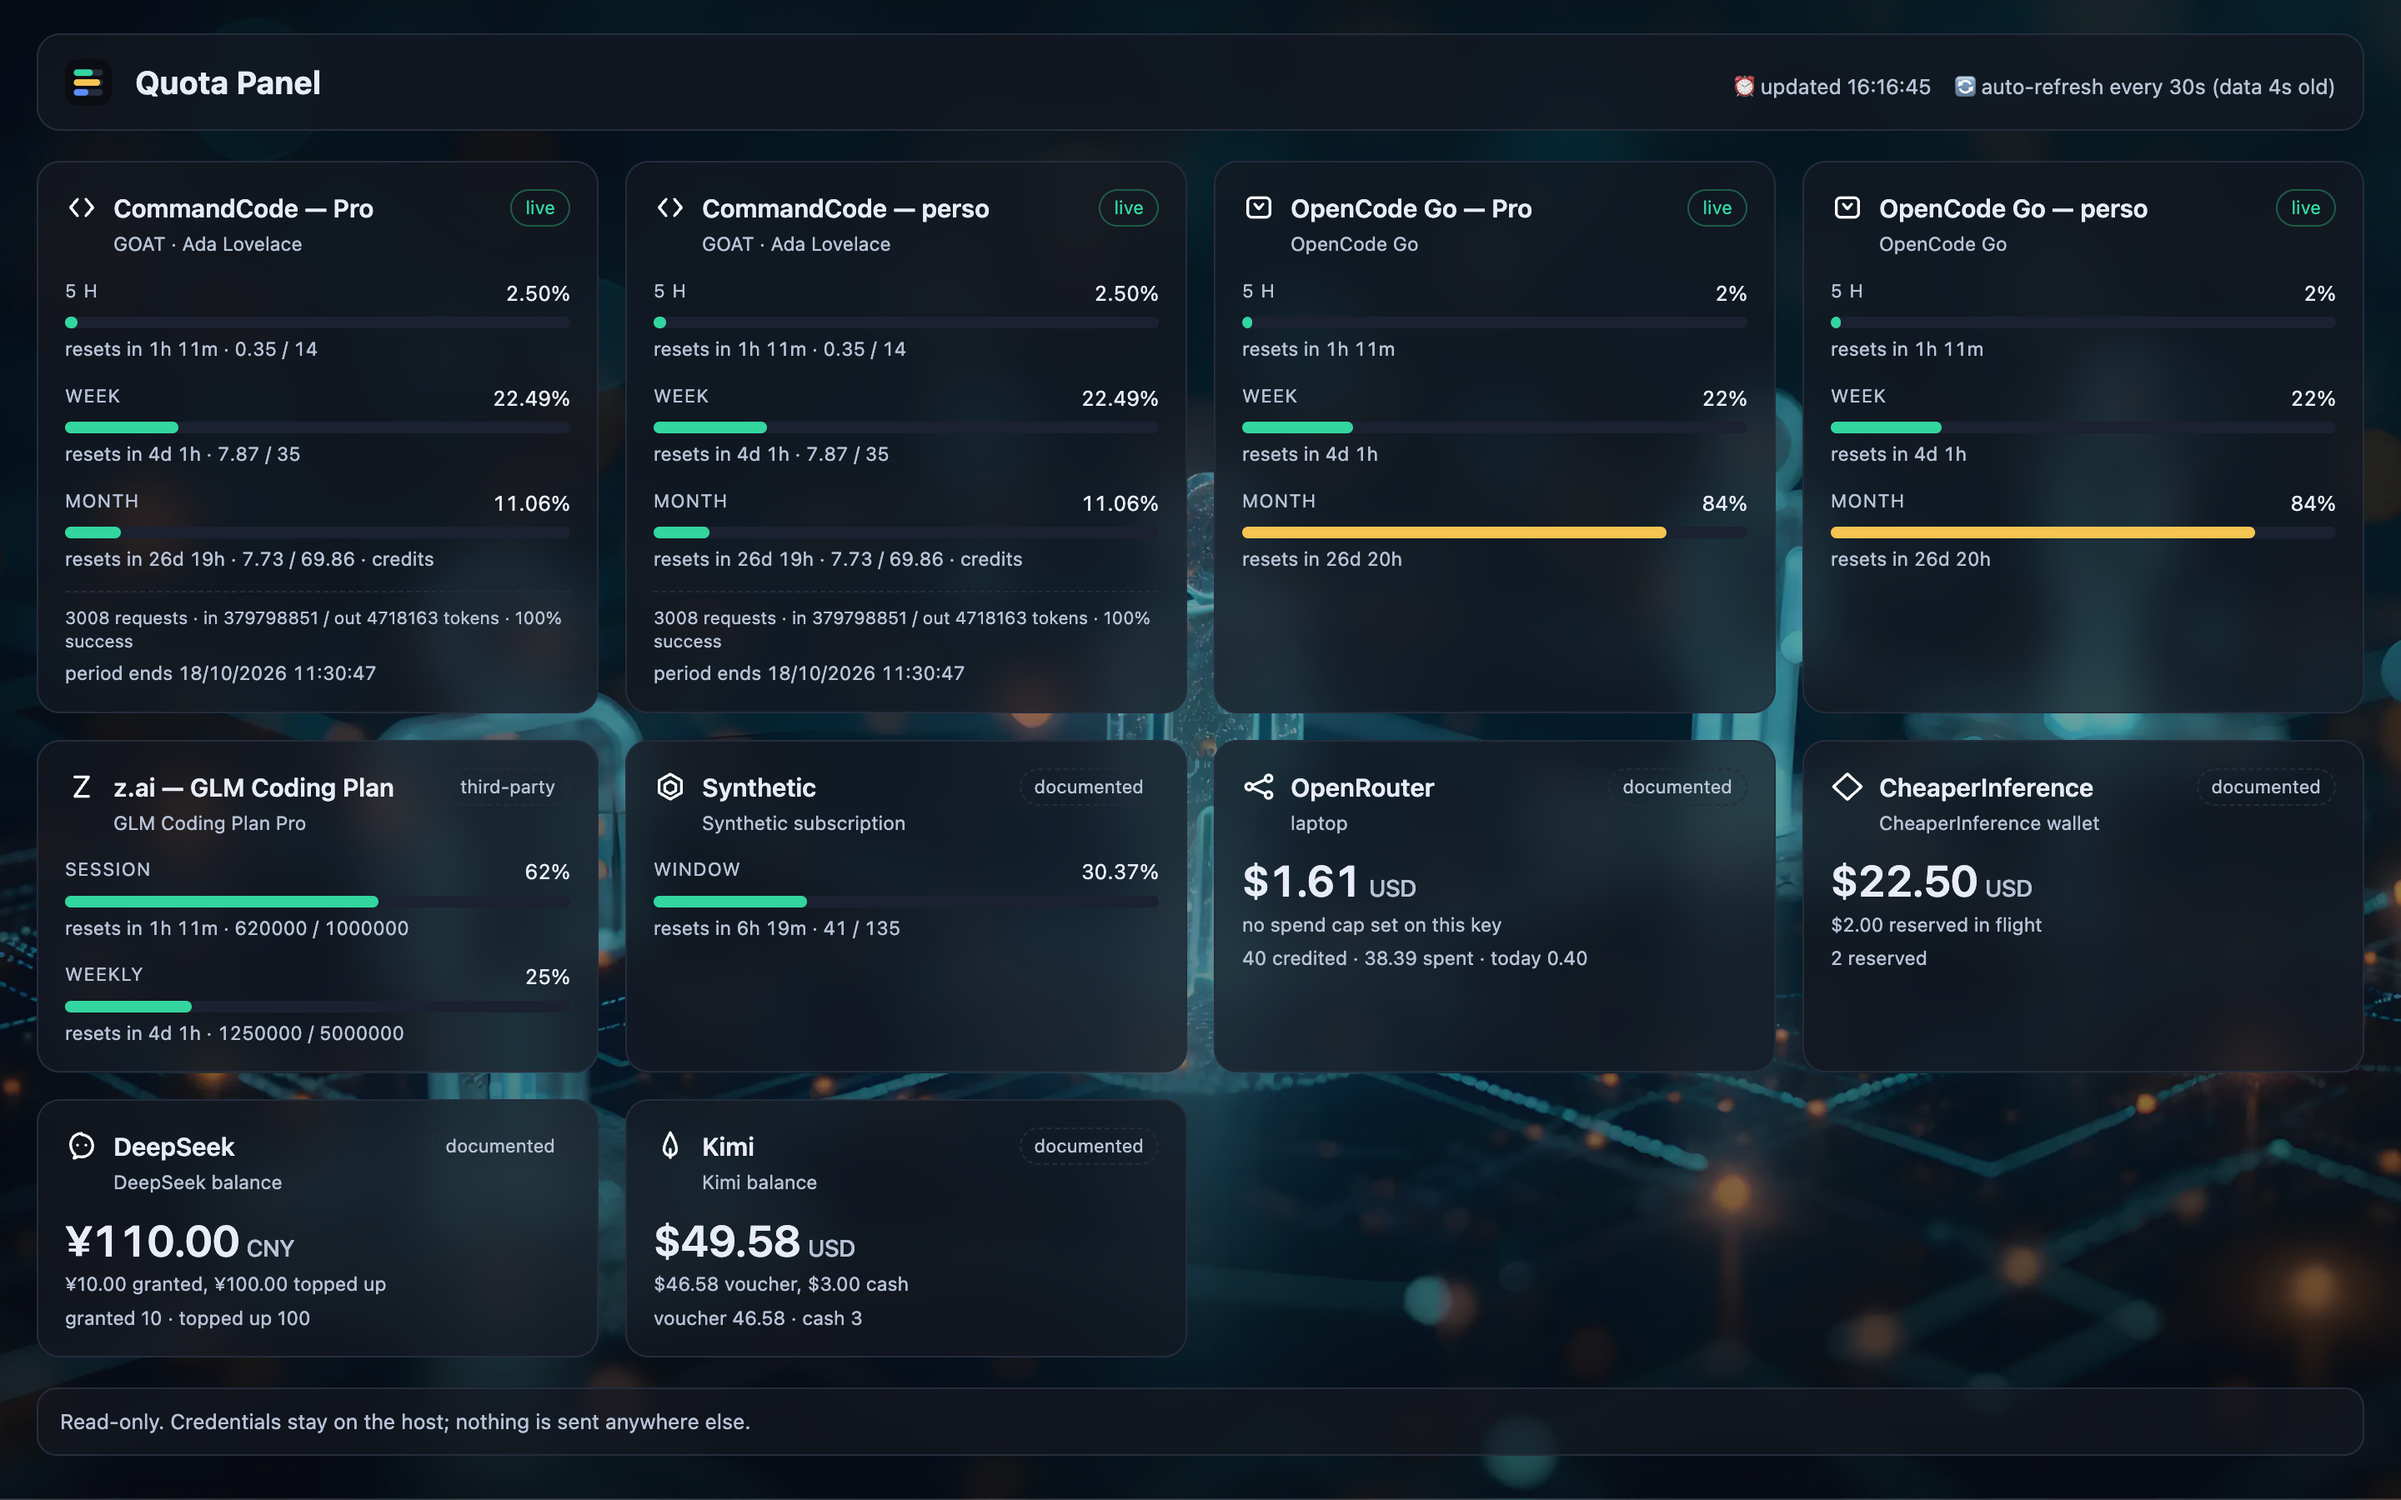
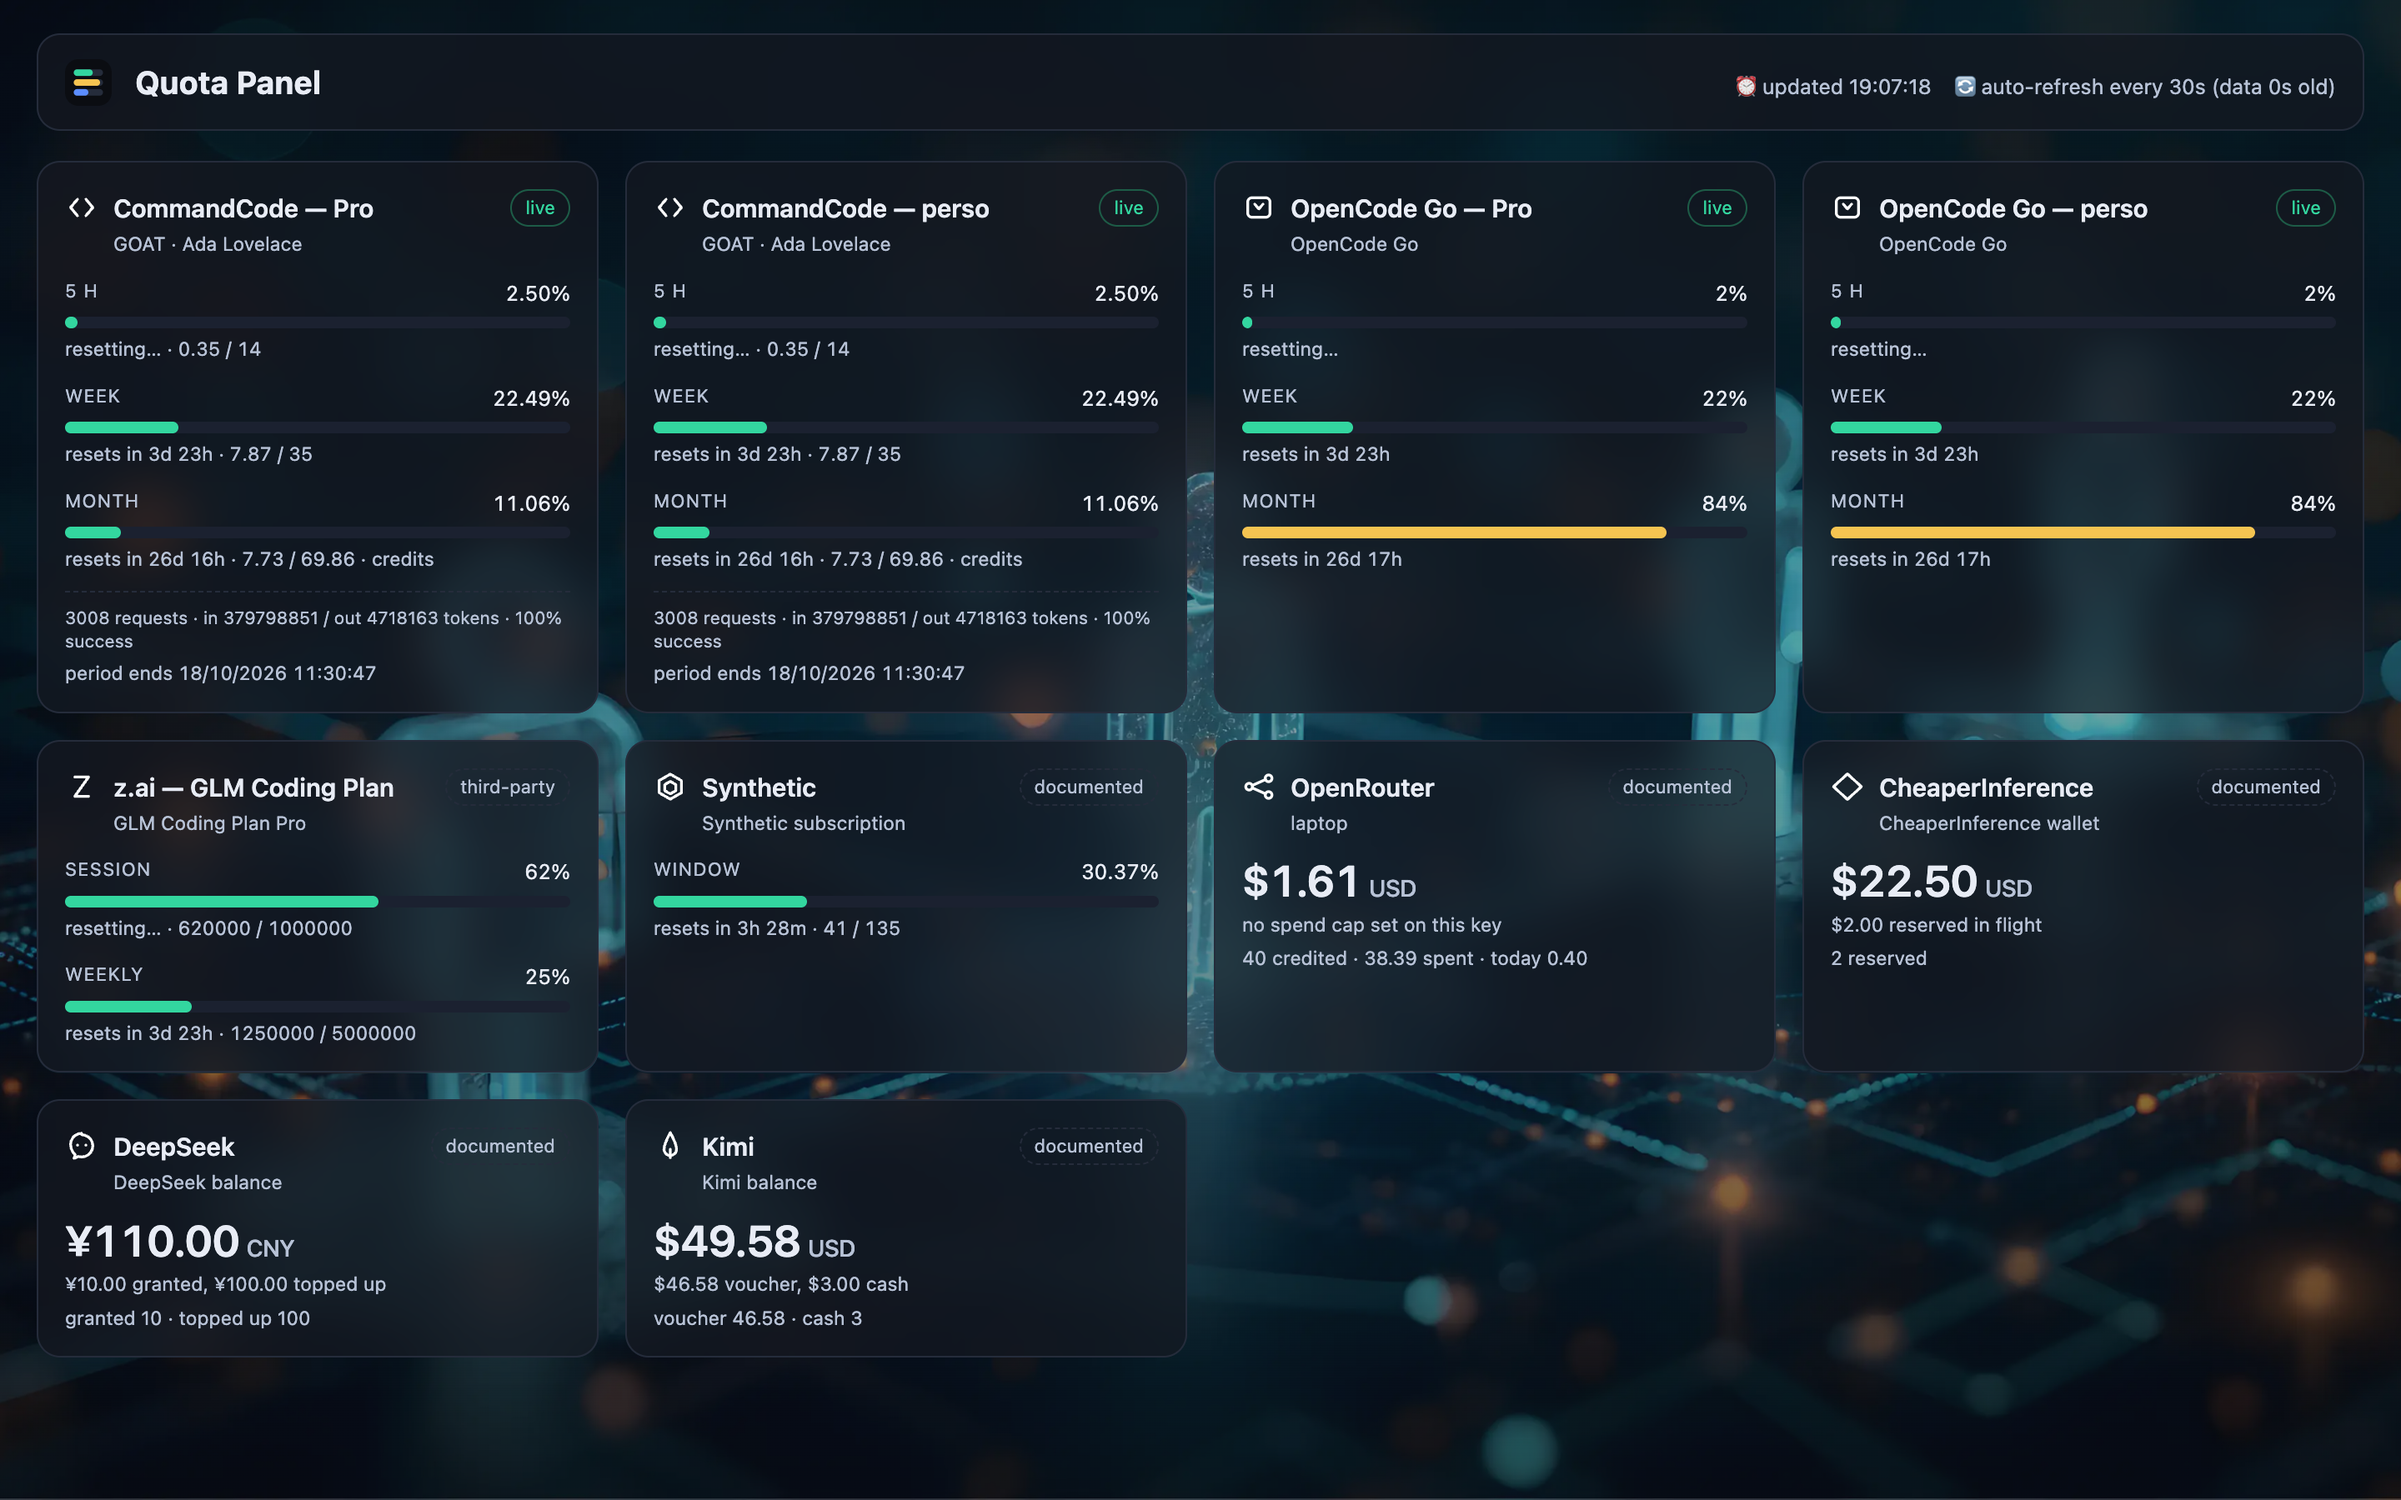
readme+ui: render the badge row instead of printing it, and drop the page footer
Two things the published page was getting wrong.

The four badges were written as markdown, [![ci](...)](...), inside a raw HTML <p align="center">
block. GitHub does not parse markdown inside an HTML block, so the page printed the source text
where the badges belong: the API's own rendering of the pushed README contains a literal "[![ci]",
and so does the live repo page. Each badge is now an <a><img></a> pair, which is what the
surrounding block needed anyway, and the alt text says what the badge says ("license: MIT") instead
of the placeholder "image" the markdown form carried. Ampersands in the shields.io query strings are
escaped. All four badge URLs answer 200 with the expected message: ci: passing, ghcr.io:
quota-panel, license: MIT, python: 3.12. The header logo needed no change, because GitHub rewrites
the relative static/favicon.svg to raw.githubusercontent.

The page footer claimed "Read-only. Credentials stay on the host; nothing is sent anywhere else."
It is gone, along with the CSS rule that existed only to give it a readable surface. The comment
above that rule recorded the measurement that justified it, 1.42:1 sitting on the scrim against
5.41:1 on a card, and the rule is dead once the element is. The claims are not lost with it: the
README's Security section carries both of them with their evidence, including the test that proves
no served body can return a credential. docs/screenshot.png is re-shot from the same render so the
[…]

diff --git a/static/index.html b/static/index.html
@@ -90,11 +90,6 @@
   #feed{font-variant-numeric:tabular-nums}
   #feed.stale{color:var(--warn)}
   #feed.down{color:var(--hot)}
-  /* The footer sat directly on the scrim, where the weakest part of the gradient left it at
-     1.42:1 over a bright photo — invisible on exactly the setup a custom wallpaper creates.
-     The card surface measures 5.41:1 at the same spot. */
-  footer{margin-top:18px;background:rgba(var(--card),var(--card-alpha));border:1px solid var(--line);
-       border-radius:12px;padding:10px 13px}
   </style>
 </head>
 <body>
@@ -115,8 +110,6 @@
   <div class="card waiting">This panel paints its data with JavaScript. The raw payload is at
     <a href="/api/quota">/api/quota</a>.</div>
 </noscript>
-
-<footer class="muted">Read-only. Credentials stay on the host; nothing is sent anywhere else.</footer>
 
 <script>
 'use strict';

diff --git a/README.md b/README.md
@@ -7,7 +7,10 @@
 <p align="center">A small read-only dashboard that shows <b>how much of your AI coding subscription is left</b>, right now, for every account you have, with a live countdown to each reset.</p>
 
 <p align="center">
-  [![ci](https://github.com/realAbitbol/quota-panel/actions/workflows/ci.yml/badge.svg)](https://github.com/realAbitbol/quota-panel/actions/workflows/ci.yml) [![image](https://img.shields.io/badge/ghcr.io-quota--panel-2496ED?logo=docker&logoColor=white)](https://github.com/realAbitbol/quota-panel/pkgs/container/quota-panel) [![license](https://img.shields.io/badge/license-MIT-blue)](LICENSE) [![python](https://img.shields.io/badge/python-3.12-3776AB?logo=python&logoColor=white)](https://www.python.org/)
+  <a href="https://github.com/realAbitbol/quota-panel/actions/workflows/ci.yml"><img alt="ci: passing" src="https://github.com/realAbitbol/quota-panel/actions/workflows/ci.yml/badge.svg"></a>
+  <a href="https://github.com/realAbitbol/quota-panel/pkgs/container/quota-panel"><img alt="ghcr.io/quota-panel" src="https://img.shields.io/badge/ghcr.io-quota--panel-2496ED?logo=docker&amp;logoColor=white"></a>
+  <a href="LICENSE"><img alt="license: MIT" src="https://img.shields.io/badge/license-MIT-blue"></a>
+  <a href="https://www.python.org/"><img alt="python: 3.12" src="https://img.shields.io/badge/python-3.12-3776AB?logo=python&amp;logoColor=white"></a>
 </p>
 
 <p align="center">
